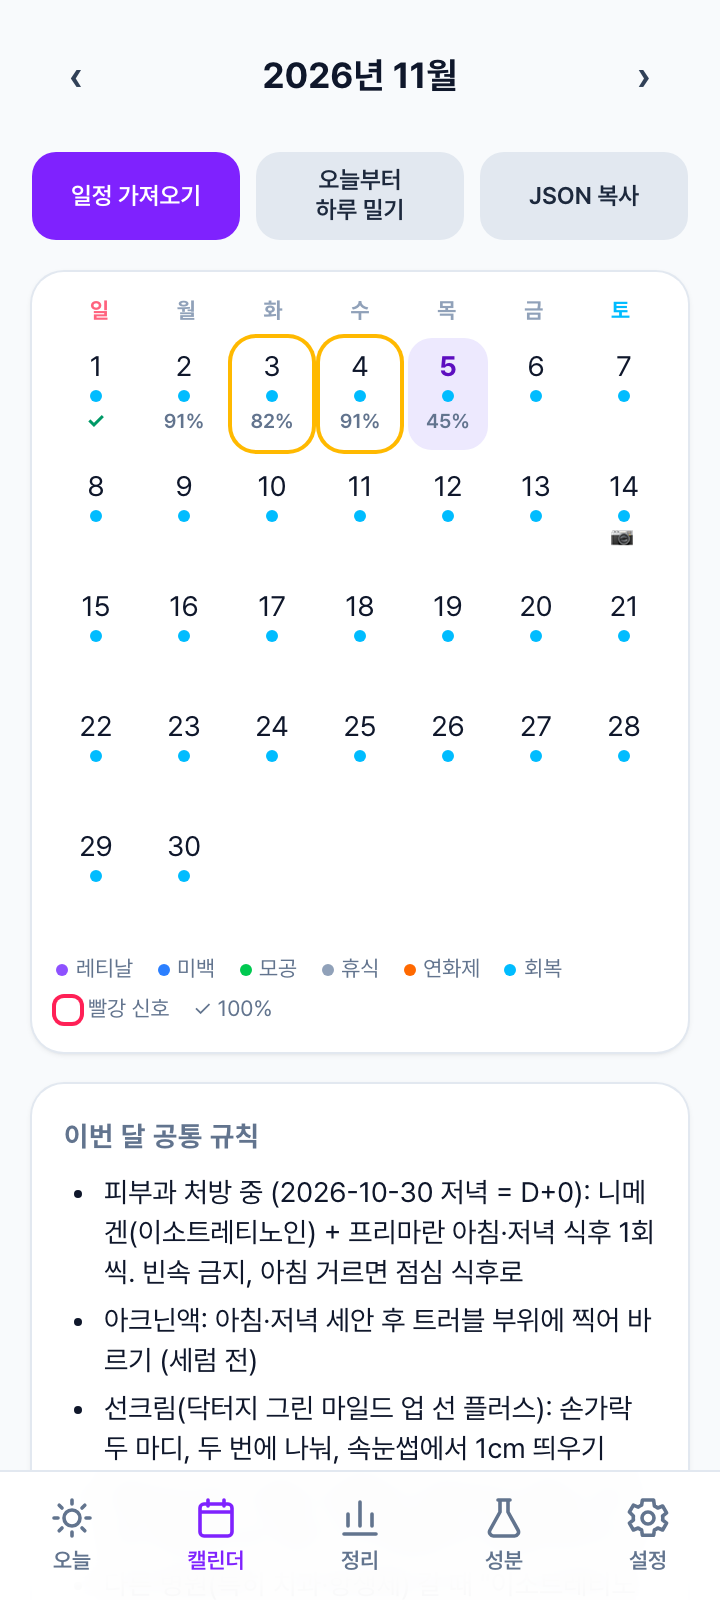
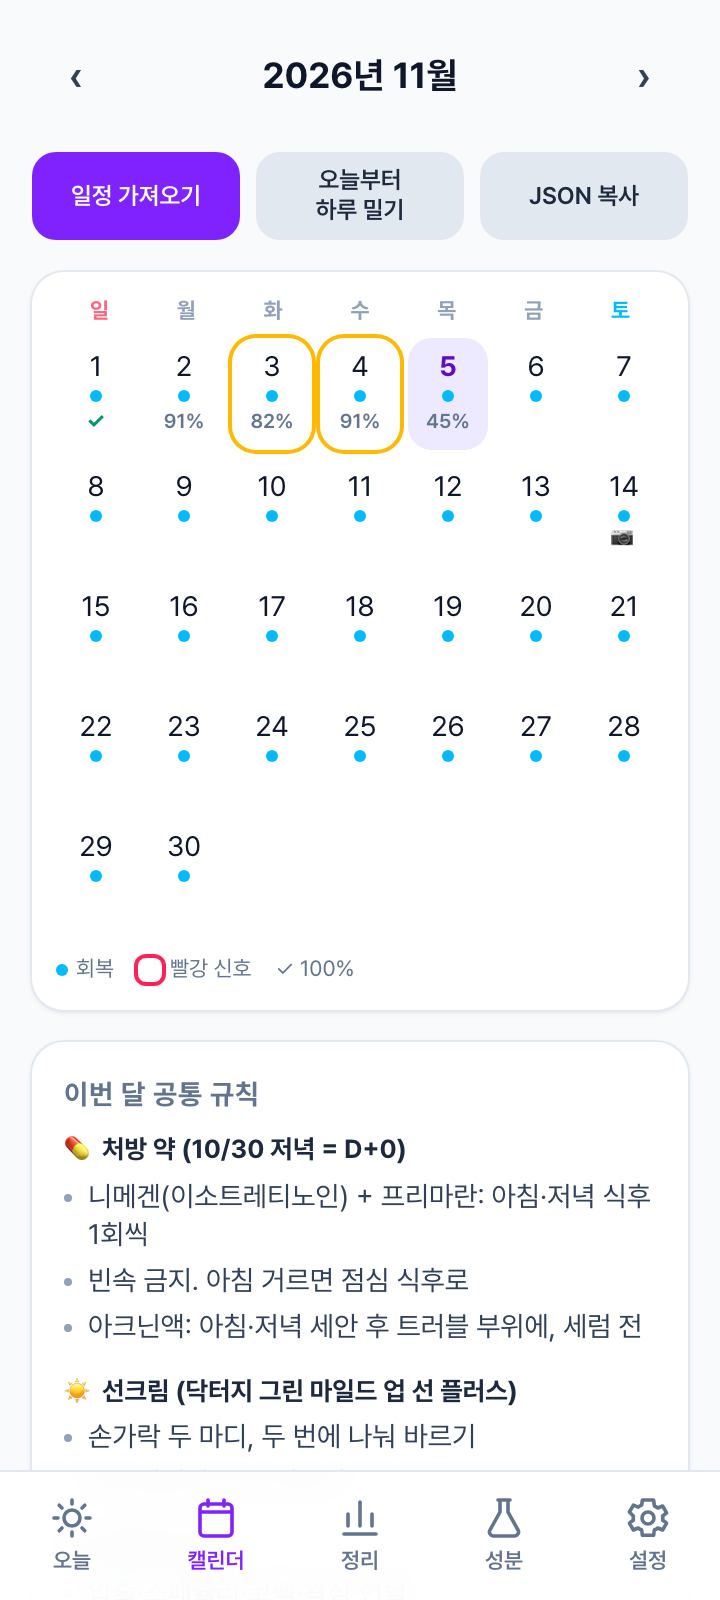
공통 규칙 마크다운 렌더, D+N 칩, 10/30 밤 루틴 체크 가능
- notes/globalNotes의 '### 제목' / '- 항목'을 섹션·불릿으로 표시 (NoteList)
- 11월 globalNotes를 7개 섹션으로 재구성, 캘린더 범례는 이번 달 밤 종류만
- 10/30(D+0) 밤에 세안부터 약까지 전체 루틴 포함

Changed region(s): [[0.0611, 0.5938, 0.9167, 0.9062], [0.55, 0.5938, 0.6722, 0.625], [0.7028, 0.5938, 0.7944, 0.625]]

diff --git a/src/components/DayView.tsx b/src/components/DayView.tsx
@@ -10,6 +10,8 @@ import { Checklist } from './Checklist'
 import { SignalPicker } from './SignalPicker'
 import { AdvisoryCard } from './AdvisoryCard'
 import { ImportScheduleModal } from './ImportScheduleModal'
+import { NoteList } from './NoteList'
+import { splitDayCounter } from '../lib/notes'
 import type { DayPlan } from '../schema'
 
 interface Props {
@@ -62,6 +64,7 @@ export function DayView({ date, isToday }: Props) {
 
   const morningIds = morningChecklist(plan, products)
   const sunIds = sunscreenProducts(plan, products)
+  const { counter, rest: dayNotes } = splitDayCounter(plan.notes)
   const progress = dayProgress(plan, log, products)
   const toItems = (ids: string[]) => ids.map((id) => ({ id, product: pmap.get(id) }))
   const allMorningDone = morningIds.length > 0 && morningIds.every((id) => log.doneMorning.includes(id))
@@ -77,6 +80,7 @@ export function DayView({ date, isToday }: Props) {
             <h1 className="text-xl font-bold leading-tight">{formatKo(date, 'M월 d일 EEEE')}</h1>
           </div>
           <div className="flex items-center gap-1.5">
+            {counter && <span className="chip bg-slate-100 text-slate-700 dark:bg-slate-800 dark:text-slate-200">{counter}</span>}
             {plan.checkpoint && <span className="chip bg-pink-100 text-pink-700 dark:bg-pink-900/50 dark:text-pink-200">📷 체크포인트</span>}
             <NightTypeBadge type={plan.nightType} />
           </div>
@@ -164,24 +168,16 @@ export function DayView({ date, isToday }: Props) {
       <AdvisoryCard advisories={advisories} />
 
       {/* 노트 */}
-      {(plan.notes?.length || ms?.globalNotes?.length) ? (
+      {(dayNotes.length || ms?.globalNotes?.length) ? (
         <section className="card">
           <h2 className="section-title">📝 오늘 메모</h2>
-          {plan.notes?.length ? (
-            <ul className="list-disc space-y-1 pl-5 text-sm">
-              {plan.notes.map((n, i) => <li key={i}>{n}</li>)}
-            </ul>
-          ) : <p className="text-sm text-slate-400">특이사항 없음</p>}
+          {dayNotes.length ? <NoteList notes={dayNotes} /> : <p className="text-sm text-slate-400">특이사항 없음</p>}
           {ms?.globalNotes?.length ? (
             <div className="mt-3">
               <button type="button" className="btn-ghost min-h-9 px-2 text-xs" onClick={() => setShowGlobal((v) => !v)}>
-                {showGlobal ? '▾' : '▸'} 이번 달 공통 규칙 ({ms.globalNotes.length})
+                {showGlobal ? '▾' : '▸'} 이번 달 공통 규칙
               </button>
-              {showGlobal && (
-                <ul className="mt-1 list-disc space-y-1 pl-5 text-sm text-slate-600 dark:text-slate-300">
-                  {ms.globalNotes.map((n, i) => <li key={i}>{n}</li>)}
-                </ul>
-              )}
+              {showGlobal && <NoteList notes={ms.globalNotes} className="mt-2" />}
             </div>
           ) : null}
         </section>

diff --git a/src/pages/Calendar.tsx b/src/pages/Calendar.tsx
@@ -8,6 +8,7 @@ import { Modal, ConfirmDialog } from '../components/Modal'
 import { DayView } from '../components/DayView'
 import { ImportScheduleModal } from '../components/ImportScheduleModal'
 import { useToast } from '../components/Toast'
+import { NoteList } from '../components/NoteList'
 import { copyText } from '../lib/export'
 import { NIGHT_TYPES } from '../schema'
 
@@ -27,6 +28,7 @@ export default function CalendarPage() {
   const dates = datesOfMonth(month)
   const lead = firstWeekdayOfMonth(month)
   const todayInMonth = today.startsWith(month)
+  const typesInMonth = NIGHT_TYPES.filter((t) => ms?.days.some((d) => d.nightType === t))
   const remaining = ms ? ms.days.filter((d) => d.date >= today).length : 0
 
   const doShift = () => {
@@ -102,7 +104,7 @@ export default function CalendarPage() {
           })}
         </div>
         <div className="mt-3 flex flex-wrap gap-x-3 gap-y-1 text-[11px] text-slate-500 dark:text-slate-400">
-          {NIGHT_TYPES.map((t) => (
+          {typesInMonth.map((t) => (
             <span key={t} className="inline-flex items-center gap-1"><span className={`h-1.5 w-1.5 rounded-full ${NIGHT_TYPE_STYLE[t].dot}`} />{t}</span>
           ))}
           <span className="inline-flex items-center gap-1"><span className="h-3 w-3 rounded ring-2 ring-rose-500" style={{ borderColor: SIGNAL_STYLE.빨강.hex }} />빨강 신호</span>
@@ -113,7 +115,7 @@ export default function CalendarPage() {
       {ms?.globalNotes?.length ? (
         <section className="card">
           <h2 className="section-title">이번 달 공통 규칙</h2>
-          <ul className="list-disc space-y-1 pl-5 text-sm">{ms.globalNotes.map((n, i) => <li key={i}>{n}</li>)}</ul>
+          <NoteList notes={ms.globalNotes} />
         </section>
       ) : null}
 

diff --git a/src/test/seed.test.ts b/src/test/seed.test.ts
@@ -57,8 +57,10 @@ describe('시드 일정 2026-11 (처방 루틴)', () => {
     expect(ms.days.filter((d) => d.checkpoint)).toHaveLength(1)
   })
 
-  it('공통 규칙에 복용 중 금지·중단 제품·신호등 기준 포함', () => {
+  it('공통 규칙은 "### 제목" 섹션 구조이고 복용 중 금지·중단 제품·신호등 기준 포함', () => {
     const g = ms.globalNotes!.join('\n')
+    expect(ms.globalNotes![0].startsWith('### ')).toBe(true)
+    expect(ms.globalNotes!.filter((n) => n.startsWith('### ')).length).toBeGreaterThanOrEqual(5)
     expect(g).toContain('이소트레티노인')
     expect(g).toContain('복용 중 금지')
     expect(g).toContain('중단')
@@ -69,10 +71,10 @@ describe('시드 일정 2026-11 (처방 루틴)', () => {
 describe('시드 일정 2026-10 (처방 시작 이틀)', () => {
   const ms = MonthScheduleSchema.parse(seedOct)
 
-  it('10/30 은 저녁 약만, 10/31 은 전체 루틴', () => {
+  it('10/30 은 아침 없이 밤 전체 루틴, 10/31 은 전체 루틴', () => {
     expect(ms.days.map((d) => d.date)).toEqual(['2026-10-30', '2026-10-31'])
     expect(ms.days[0].morning).toEqual([])
-    expect(ms.days[0].night).toEqual(['rx-meds'])
+    expect(ms.days[0].night).toEqual(NIGHT)
     expect(ms.days[0].notes![0]).toBe('D+0')
     expect(ms.days[1].morning).toEqual(MORNING)
     expect(ms.days[1].notes![0]).toBe('D+1')

diff --git a/src/lib/notes.ts b/src/lib/notes.ts
@@ -1,0 +1,45 @@
+/**
+ * notes / globalNotes(string[]) 를 마크다운 느낌으로 해석한다.
+ *   "### 제목"  → 섹션 제목
+ *   "- 내용"    → 항목 (접두사 없는 줄도 항목으로 취급)
+ * 스키마는 그대로 string[] 이므로 외부 JSON 형식은 바뀌지 않는다.
+ */
+export interface NoteSection {
+  title?: string
+  items: string[]
+}
+
+export function parseNotes(notes: string[] | undefined): NoteSection[] {
+  const out: NoteSection[] = []
+  let cur: NoteSection | null = null
+  for (const raw of notes ?? []) {
+    const line = raw.trim()
+    if (!line) continue
+    const h = /^#{1,6}\s+(.+)$/.exec(line)
+    if (h) {
+      cur = { title: h[1].trim(), items: [] }
+      out.push(cur)
+      continue
+    }
+    if (!cur) {
+      cur = { items: [] }
+      out.push(cur)
+    }
+    cur.items.push(line.replace(/^[-*•]\s+/, ''))
+  }
+  return out
+}
+
+const DPLUS_RE = /^D\+\d+$/
+
+/** notes 에서 "D+N" 카운터 줄을 분리한다 (헤더 칩으로 표시용) */
+export function splitDayCounter(notes: string[] | undefined): { counter?: string; rest: string[] } {
+  const rest: string[] = []
+  let counter: string | undefined
+  for (const n of notes ?? []) {
+    const t = n.trim()
+    if (!counter && DPLUS_RE.test(t)) counter = t
+    else rest.push(n)
+  }
+  return { counter, rest }
+}

diff --git a/src/components/NoteList.tsx b/src/components/NoteList.tsx
@@ -1,0 +1,24 @@
+import { parseNotes } from '../lib/notes'
+
+/** "### 제목" / "- 항목" 규칙으로 쓴 notes 를 섹션 + 불릿으로 렌더 */
+export function NoteList({ notes, className = '' }: { notes: string[] | undefined; className?: string }) {
+  const sections = parseNotes(notes)
+  if (!sections.length) return null
+  return (
+    <div className={'space-y-3 ' + className}>
+      {sections.map((s, i) => (
+        <section key={i}>
+          {s.title && <h4 className="mb-1 text-[13px] font-bold text-slate-800 dark:text-slate-100">{s.title}</h4>}
+          <ul className="space-y-1 text-sm leading-snug text-slate-700 dark:text-slate-300">
+            {s.items.map((it, j) => (
+              <li key={j} className="flex gap-2">
+                <span className="mt-[8px] h-1 w-1 shrink-0 rounded-full bg-slate-400 dark:bg-slate-500" aria-hidden="true" />
+                <span className="min-w-0 flex-1">{it}</span>
+              </li>
+            ))}
+          </ul>
+        </section>
+      ))}
+    </div>
+  )
+}

diff --git a/src/test/notes.test.ts b/src/test/notes.test.ts
@@ -1,0 +1,26 @@
+import { describe, it, expect } from 'vitest'
+import { parseNotes, splitDayCounter } from '../lib/notes'
+
+describe('parseNotes', () => {
+  it('### 제목 + - 항목 → 섹션', () => {
+    const s = parseNotes(['### 약', '- 아침 식후', '- 저녁 식후', '### 금지', '술', ''])
+    expect(s).toEqual([
+      { title: '약', items: ['아침 식후', '저녁 식후'] },
+      { title: '금지', items: ['술'] },
+    ])
+  })
+  it('제목 없이 시작하면 제목 없는 섹션', () => {
+    expect(parseNotes(['- a', '### b', 'c'])).toEqual([{ items: ['a'] }, { title: 'b', items: ['c'] }])
+  })
+  it('빈 입력', () => {
+    expect(parseNotes(undefined)).toEqual([])
+    expect(parseNotes([])).toEqual([])
+  })
+})
+
+describe('splitDayCounter', () => {
+  it('D+N 줄을 분리', () => {
+    expect(splitDayCounter(['D+3', '메모'])).toEqual({ counter: 'D+3', rest: ['메모'] })
+    expect(splitDayCounter(['메모'])).toEqual({ counter: undefined, rest: ['메모'] })
+  })
+})
